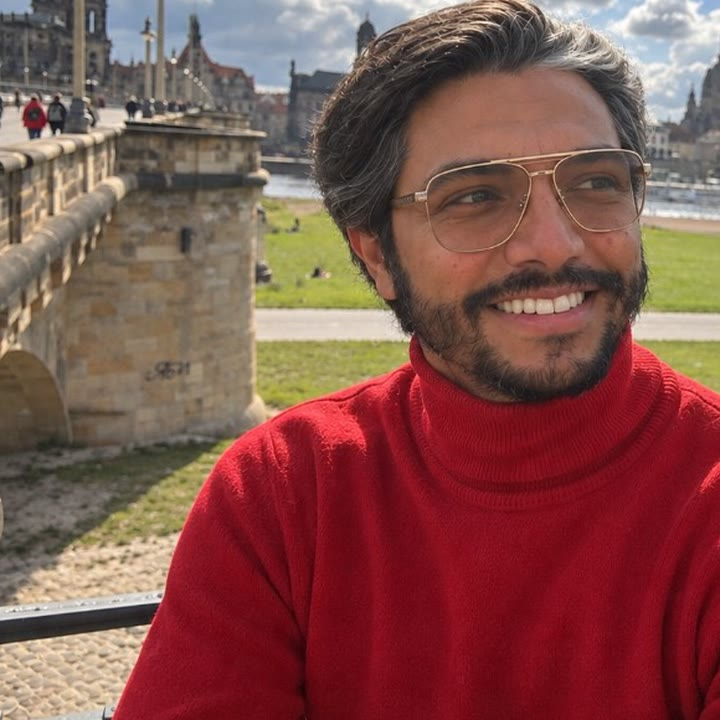
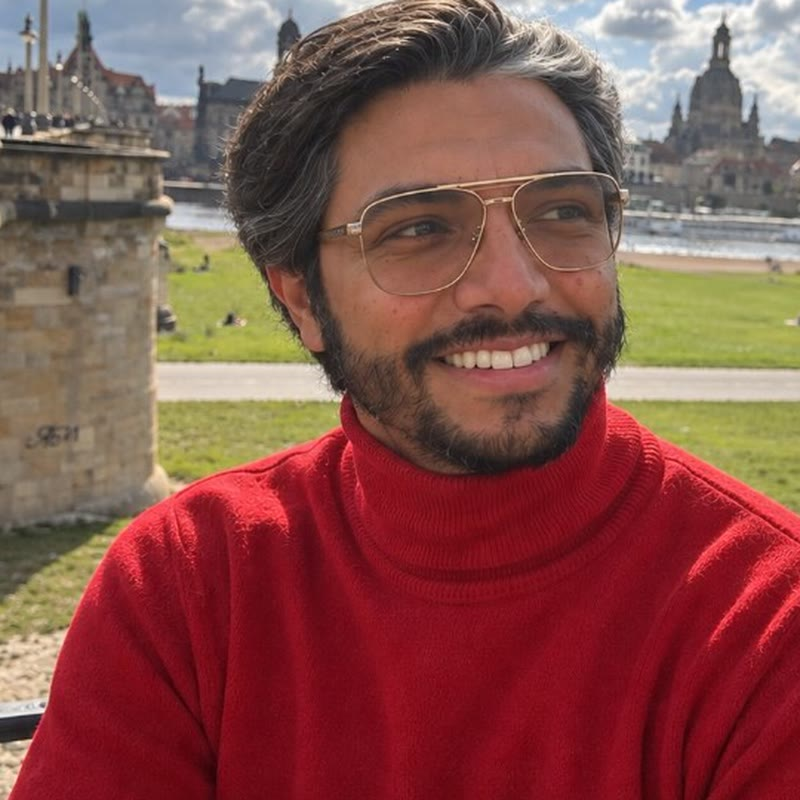
Perfil de Vicente: foto centrada, enlace y credenciales
Retrato recentrado; enlace a vicenteestrada.com; rol actual (RT SECIHTI / postdoc LMU) y credenciales académicas en ES, EN y DE.

diff --git a/site.js b/site.js
@@ -153,9 +153,17 @@
       teamTitle: 'Quién trabaja en el proyecto',
       teamIntro: 'Roles principales en la etapa 1. La lista puede ampliarse con colaboradores locales.',
       team: [
-        { name: 'Dr. Vicente Estrada González', initials: 'VE', photo: 'assets/team-vicente.jpg', role: 'Responsable técnico', text: 'Diseño científico, entrevistas comunitarias y coordinación general.' },
-        { name: 'Jeffrey Vadala', initials: 'JV', photo: '', role: 'Desarrollo de la app', text: 'Construcción técnica de la aplicación educativa en dispositivos móviles.' },
-        { name: 'Inhala / Mallinalli', initials: 'M', photo: '', role: 'Articulación local', text: 'Espacio, dinámica comunitaria y apoyo en Villa Victoria.' },
+        {
+          name: 'Dr. Vicente Estrada González',
+          initials: 'VE',
+          photo: 'assets/team-vicente.jpg',
+          url: 'https://vicenteestrada.com',
+          role: 'Responsable técnico · Investigador postdoctoral (LMU Múnich)',
+          credentials: 'PhD en Psicología (UNSW Sydney) · B.Sc. Psicología (UNAM) · Ex-postdoc, Penn Center for Neuroaesthetics (UPenn)',
+          text: 'Diseño científico, entrevistas comunitarias y coordinación general del proyecto SECIHTI. Investiga estética empírica, visión y salud digital; lidera el desarrollo de la app de realidad aumentada.',
+        },
+        { name: 'Jeffrey Vadala', initials: 'JV', photo: '', url: '', role: 'Desarrollo de la app', credentials: '', text: 'Construcción técnica de la aplicación educativa en dispositivos móviles.' },
+        { name: 'Inhala / Mallinalli', initials: 'M', photo: '', url: '', role: 'Articulación local', credentials: '', text: 'Espacio, dinámica comunitaria y apoyo en Villa Victoria.' },
       ],
       mediaTitle: 'Fotos y videos',
       mediaIntro: 'Espacios reservados para imágenes y material audiovisual del proyecto. Solo se publicará contenido con consentimiento y sin datos personales.',
@@ -255,9 +263,17 @@
       teamTitle: 'Project Team',
       teamIntro: 'Core roles in stage 1. Local collaborators may be added.',
       team: [
-        { name: 'Dr. Vicente Estrada González', initials: 'VE', photo: 'assets/team-vicente.jpg', role: 'Principal Investigator', text: 'Scientific design, community interviews and overall coordination.' },
-        { name: 'Jeffrey Vadala', initials: 'JV', photo: '', role: 'App Development', text: 'Technical build of the educational mobile application.' },
-        { name: 'Inhala / Mallinalli', initials: 'M', photo: '', role: 'Local Liaison', text: 'Space, community dynamics and support in Villa Victoria.' },
+        {
+          name: 'Dr. Vicente Estrada González',
+          initials: 'VE',
+          photo: 'assets/team-vicente.jpg',
+          url: 'https://vicenteestrada.com',
+          role: 'Principal Investigator · Postdoctoral Researcher (LMU Munich)',
+          credentials: 'PhD in Psychology (UNSW Sydney) · B.Sc. Psychology (UNAM) · Former postdoc, Penn Center for Neuroaesthetics (UPenn)',
+          text: 'Scientific design, community interviews and overall coordination of the SECIHTI project. Researches empirical aesthetics, vision and digital health; leads development of the augmented-reality app.',
+        },
+        { name: 'Jeffrey Vadala', initials: 'JV', photo: '', url: '', role: 'App Development', credentials: '', text: 'Technical build of the educational mobile application.' },
+        { name: 'Inhala / Mallinalli', initials: 'M', photo: '', url: '', role: 'Local Liaison', credentials: '', text: 'Space, community dynamics and support in Villa Victoria.' },
       ],
       mediaTitle: 'Photos and Videos',
       mediaIntro: 'Reserved slots for project images and clips. Only material with consent and no personal data will be published.',
@@ -357,9 +373,17 @@
       teamTitle: 'Projektteam',
       teamIntro: 'Zentrale Rollen in Stufe 1. Die Liste kann um lokale Mitarbeitende erweitert werden.',
       team: [
-        { name: 'Dr. Vicente Estrada González', initials: 'VE', photo: 'assets/team-vicente.jpg', role: 'Technische Leitung', text: 'Wissenschaftliches Design, Gemeindeinterviews und Gesamtkoordination.' },
-        { name: 'Jeffrey Vadala', initials: 'JV', photo: '', role: 'App-Entwicklung', text: 'Technischer Aufbau der Bildungs-App für mobile Geräte.' },
-        { name: 'Inhala / Mallinalli', initials: 'M', photo: '', role: 'Lokale Vernetzung', text: 'Raum, Gemeindedynamik und Unterstützung in Villa Victoria.' },
+        {
+          name: 'Dr. Vicente Estrada González',
+          initials: 'VE',
+          photo: 'assets/team-vicente.jpg',
+          url: 'https://vicenteestrada.com',
+          role: 'Technische Leitung · Postdoktorand (LMU München)',
+          credentials: 'PhD Psychologie (UNSW Sydney) · B.Sc. Psychologie (UNAM) · Ehem. Postdoc, Penn Center for Neuroaesthetics (UPenn)',
+          text: 'Wissenschaftliches Design, Gemeindeinterviews und Gesamtkoordination des SECIHTI-Projekts. Forscht zu empirischer Ästhetik, Sehen und digitaler Gesundheit; leitet die Entwicklung der Augmented-Reality-App.',
+        },
+        { name: 'Jeffrey Vadala', initials: 'JV', photo: '', url: '', role: 'App-Entwicklung', credentials: '', text: 'Technischer Aufbau der Bildungs-App für mobile Geräte.' },
+        { name: 'Inhala / Mallinalli', initials: 'M', photo: '', url: '', role: 'Lokale Vernetzung', credentials: '', text: 'Raum, Gemeindedynamik und Unterstützung in Villa Victoria.' },
       ],
       mediaTitle: 'Fotos und Videos',
       mediaIntro: 'Reservierte Plätze für Bilder und audiovisuelle Materialien des Projekts. Veröffentlicht wird nur Material mit Einwilligung und ohne personenbezogene Daten.',
@@ -455,12 +479,18 @@
     $('#team').innerHTML = T[L()].team.map((p) => {
       const hasPhoto = Boolean(p.photo && String(p.photo).trim());
       const media = hasPhoto
-        ? `<img class="avatar avatar--photo" src="${esc(p.photo)}" alt="${esc(p.name)}" width="720" height="720" loading="lazy">`
+        ? `<img class="avatar avatar--photo" src="${esc(p.photo)}" alt="${esc(p.name)}" width="800" height="800" loading="lazy">`
         : `<div class="avatar" aria-hidden="true">${esc(p.initials || '')}</div>`;
+      const link = p.url
+        ? `<a class="team-link" href="${esc(p.url)}" target="_blank" rel="noopener noreferrer">${esc(p.url.replace(/^https?:\/\//, ''))}</a>`
+        : '';
+      const creds = p.credentials ? `<p class="team-creds">${esc(p.credentials)}</p>` : '';
       return `<article class="team-card${hasPhoto ? ' has-photo' : ''}">
         ${media}
         <h3>${esc(p.name)}</h3>
+        ${link}
         <p class="role">${esc(p.role)}</p>
+        ${creds}
         <p>${esc(p.text)}</p>
       </article>`;
     }).join('');

diff --git a/styles.css b/styles.css
@@ -844,24 +844,47 @@ body.is-loading .site-head { transform: translateY(-110%); }
   aspect-ratio: 1;
   border-radius: var(--radius);
   object-fit: cover;
-  object-position: center 20%;
+  object-position: center center;
   display: block;
   margin-bottom: 22px;
   background: var(--sand);
 }
 
 .team h3 {
-  margin: 0 0 8px;
+  margin: 0 0 6px;
   font: 600 1.3rem/1.2 var(--display);
   letter-spacing: -0.015em;
 }
 
-.team .role {
+.team-link {
+  display: inline-block;
   margin: 0 0 12px;
+  font: 500 14px var(--body);
+  color: var(--ink-soft);
+  text-decoration: none;
+  border-bottom: 1px solid var(--line-strong);
+  padding-bottom: 1px;
+  transition: color 0.2s, border-color 0.2s;
+}
+
+.team-link:hover {
+  color: var(--ochre);
+  border-bottom-color: var(--ochre);
+}
+
+.team .role {
+  margin: 0 0 8px;
   font: 600 11px var(--body);
   letter-spacing: 0.18em;
   text-transform: uppercase;
   color: var(--ochre);
+}
+
+.team-creds {
+  margin: 0 0 12px !important;
+  font-size: 13.5px !important;
+  line-height: 1.45 !important;
+  color: var(--muted) !important;
 }
 
 .team p { margin: 0; font-size: 15px; line-height: 1.5; color: var(--ink-soft); }
